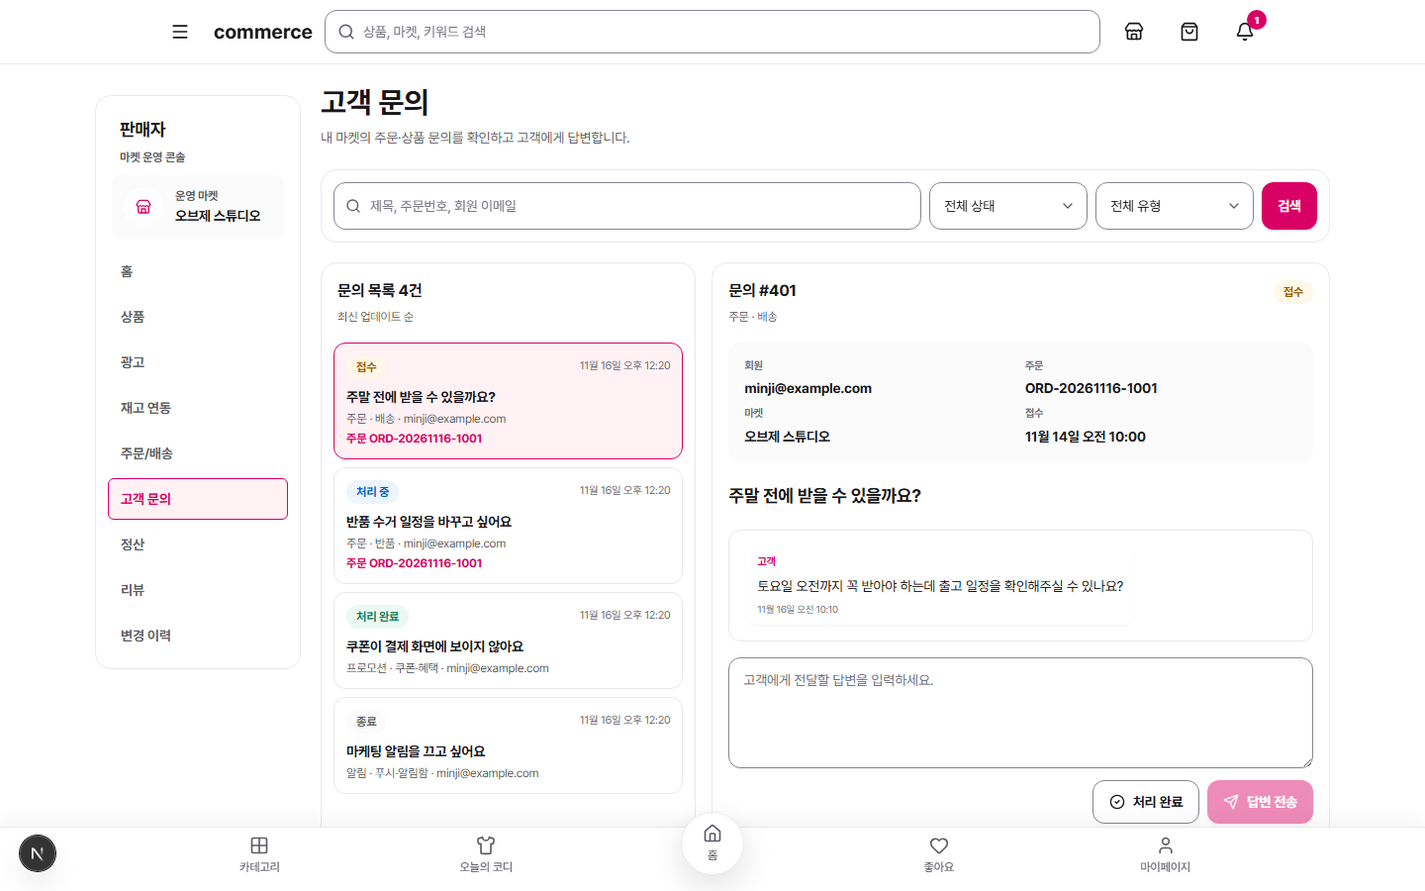
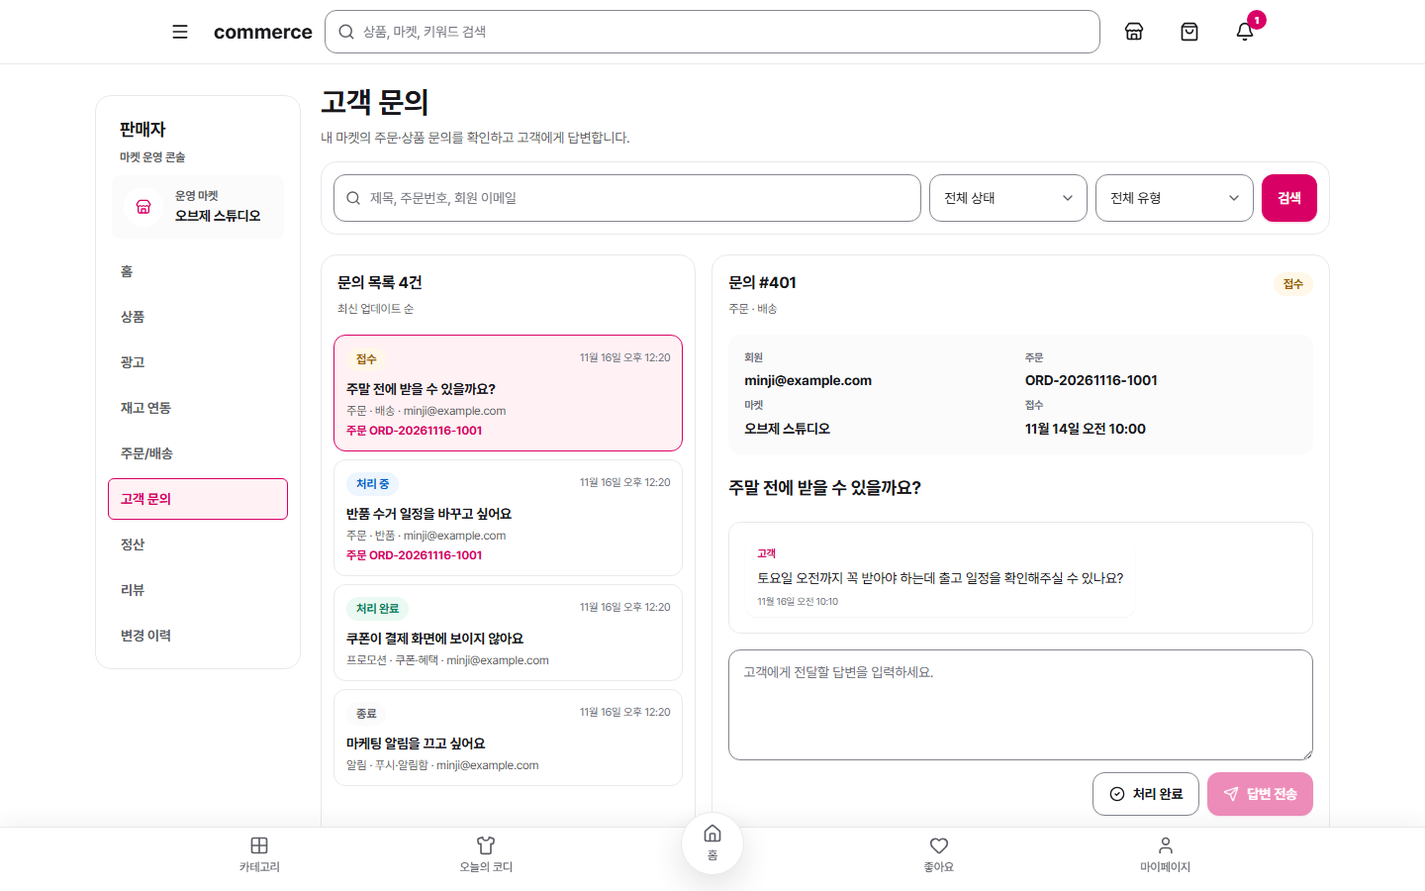
feat: add AI inquiry search experience

diff --git a/src/components/inquiry-operator-page.tsx b/src/components/inquiry-operator-page.tsx
@@ -2,10 +2,10 @@
 
 import { useState } from "react";
 import { useMutation, useQuery, useQueryClient } from "@tanstack/react-query";
-import { CheckCircle2, MessageSquareText, Search, Send } from "lucide-react";
+import { CheckCircle2, MessageSquareText, Search, Send, Sparkles } from "lucide-react";
 import { api } from "@/lib/api";
 import { apiErrorMessage } from "@/lib/api-client";
-import type { InquiryCategory, InquiryStatus } from "@/lib/api/inquiries";
+import type { InquiryCategory, InquiryStatus, NaturalLanguageInquirySearchResponse, OperatorInquiry } from "@/lib/api/inquiries";
 import { categoryLabel, inquiryCategories, inquiryDate } from "@/lib/inquiries";
 import { adminLinks, AdminAuthRequired, useAdminToken } from "./admin-console";
 import { ConsoleHeader, ConsoleLayout, ConsoleSection } from "./console-layout";
@@ -34,13 +34,24 @@ function OperatorInquiryContent({ role, token, marketID }: { role: "admin" | "se
   const [query, setQuery] = useState("");
   const [status, setStatus] = useState<"" | InquiryStatus>("");
   const [category, setCategory] = useState<"" | InquiryCategory>("");
+  const [searchMode, setSearchMode] = useState<"ai" | "keyword">("ai");
   const [selectedID, setSelectedID] = useState<number>();
   const [reply, setReply] = useState("");
+  const aiActive = role === "admin" && searchMode === "ai" && Boolean(query);
   const listKey = ["operator-inquiries", role, marketID, query, status, category] as const;
   const list = useQuery({
     queryKey: listKey,
     queryFn: () => api.listOperatorInquiries(token, role, { query: query || undefined, status: status || undefined, category: category || undefined, marketID, limit: 100 }),
-    enabled: role === "admin" || Boolean(marketID),
+    enabled: (role === "admin" || Boolean(marketID)) && !aiActive,
+  });
+  const aiSearch = useMutation({
+    mutationFn: (searchQuery: string) => api.searchAdminInquiries(token, {
+      query: searchQuery,
+      status: status || undefined,
+      category: category || undefined,
+      limit: 30,
+    }),
+    meta: { suppressConsoleError: true },
   });
   const detail = useQuery({
     queryKey: ["operator-inquiry", role, marketID, selectedID],
@@ -54,26 +65,50 @@ function OperatorInquiryContent({ role, token, marketID }: { role: "admin" | "se
   ]);
   const send = useMutation({ mutationFn: () => api.replyAsOperator(token, role, selectedID ?? 0, reply.trim(), marketID), onSuccess: async () => { setReply(""); await refresh(); } });
   const complete = useMutation({ mutationFn: () => api.completeInquiry(token, role, selectedID ?? 0, marketID), onSuccess: refresh });
+  const page = aiActive ? aiSearch.data : list.data;
+  const pageLoading = aiActive ? aiSearch.isPending : list.isLoading;
+  const pageError = aiActive ? aiSearch.error : list.error;
   const item = detail.data;
 
+  const submitSearch = () => {
+    const nextQuery = queryInput.trim();
+    setQuery(nextQuery);
+    setSelectedID(undefined);
+    if (role === "admin" && searchMode === "ai" && nextQuery) aiSearch.mutate(nextQuery);
+  };
+
+  const useKeywordFallback = () => {
+    aiSearch.reset();
+    setSearchMode("keyword");
+    setQuery(queryInput.trim());
+    setSelectedID(undefined);
+  };
+
   return <>
-    <ConsoleHeader title={role === "admin" ? "고객 문의 통합 검색" : "고객 문의"} description={role === "admin" ? "질문 내용, 회원 이메일, 주문번호를 키워드로 검색하고 플랫폼 문의를 처리합니다." : "내 마켓의 주문·상품 문의를 확인하고 고객에게 답변합니다."} />
-    <form className="mt-5 grid gap-2 rounded-surface border border-border-subtle bg-surface-raised p-3 md:grid-cols-[minmax(240px,1fr)_160px_160px_auto]" onSubmit={(event) => { event.preventDefault(); setQuery(queryInput.trim()); }}>
-      <label className="relative block"><span className="sr-only">문의 검색</span><Search className="pointer-events-none absolute left-3 top-1/2 z-10 size-4 -translate-y-1/2 text-content-secondary" /><Input className="pl-9" value={queryInput} onChange={(event) => setQueryInput(event.target.value)} placeholder={role === "admin" ? "예: 배송이 멈춘 주문, member@example.com" : "제목, 주문번호, 회원 이메일"} /></label>
+    <ConsoleHeader title={role === "admin" ? "고객 문의 AI 검색" : "고객 문의"} description={role === "admin" ? "자연어 요청을 AI가 검색 조건으로 해석하고, 결과마다 찾은 이유를 설명합니다." : "내 마켓의 주문·상품 문의를 확인하고 고객에게 답변합니다."} />
+    {role === "admin" ? <div className="mt-5 flex flex-wrap gap-2" aria-label="검색 방식">
+      <Button size="sm" variant={searchMode === "ai" ? "primary" : "secondary"} aria-pressed={searchMode === "ai"} onClick={() => { setSearchMode("ai"); setQuery(""); setSelectedID(undefined); aiSearch.reset(); }}><Sparkles size={15} />AI 자연어 검색</Button>
+      <Button size="sm" variant={searchMode === "keyword" ? "primary" : "secondary"} aria-pressed={searchMode === "keyword"} onClick={useKeywordFallback}>기본 키워드 검색</Button>
+    </div> : null}
+    <form className="mt-3 grid gap-2 rounded-surface border border-border-subtle bg-surface-raised p-3 md:grid-cols-[minmax(240px,1fr)_160px_160px_auto]" onSubmit={(event) => { event.preventDefault(); submitSearch(); }}>
+      <label className="relative block"><span className="sr-only">문의 검색</span><Search className="pointer-events-none absolute left-3 top-1/2 z-10 size-4 -translate-y-1/2 text-content-secondary" /><Input className="pl-9" value={queryInput} onChange={(event) => setQueryInput(event.target.value)} placeholder={role === "admin" ? "예: 지난주 처리 중인 배송 지연 문의" : "제목, 주문번호, 회원 이메일"} /></label>
       <Select aria-label="문의 상태" value={status} onChange={(event) => setStatus(event.target.value as "" | InquiryStatus)}><option value="">전체 상태</option><option value="STARTED">접수</option><option value="IN_PROGRESS">처리 중</option><option value="COMPLETED">처리 완료</option><option value="CLOSED">종료</option></Select>
-      <Select aria-label="문의 유형" value={category} onChange={(event) => setCategory(event.target.value as "" | InquiryCategory)}><option value="">전체 유형</option>{inquiryCategories.map((item) => <option key={item.value} value={item.value}>{item.label}</option>)}</Select>
-      <Button type="submit">검색</Button>
+      <Select aria-label="문의 유형" value={category} onChange={(event) => setCategory(event.target.value as "" | InquiryCategory)}><option value="">전체 유형</option>{inquiryCategories.map((option) => <option key={option.value} value={option.value}>{option.label}</option>)}</Select>
+      <Button type="submit" disabled={aiSearch.isPending}>{role === "admin" && searchMode === "ai" ? <><Sparkles size={16} />{aiSearch.isPending ? "AI가 분석 중" : "AI 검색"}</> : "검색"}</Button>
     </form>
+    {aiActive && aiSearch.data ? <AISearchExplanation result={aiSearch.data} /> : null}
+    {aiActive && aiSearch.error ? <Notice className="mt-4" tone="error" title="AI 검색을 완료하지 못했습니다"><p>{apiErrorMessage(aiSearch.error)}</p><div className="mt-3 flex flex-wrap gap-2"><Button size="sm" variant="secondary" onClick={() => aiSearch.mutate(query)}>AI 검색 다시 시도</Button><Button size="sm" variant="secondary" onClick={useKeywordFallback}>기본 키워드 검색으로 전환</Button></div></Notice> : null}
     <div className="mt-5 grid min-h-[620px] gap-4 xl:grid-cols-[minmax(340px,0.85fr)_minmax(480px,1.4fr)]">
-      <ConsoleSection title={`문의 목록 ${list.data ? `${list.data.total}건` : ""}`} description={role === "seller" ? "최신 업데이트 순" : "검색 결과와 최신 업데이트 순"}>
-        {list.isLoading ? <InlineLoadingState label="문의 목록을 불러오는 중입니다." /> : null}
-        {list.error ? <Notice tone="error">{apiErrorMessage(list.error)}</Notice> : null}
-        <div className="-mx-1 space-y-2">{list.data?.items.map((inquiry) => <button key={inquiry.id} type="button" onClick={() => setSelectedID(inquiry.id)} className={`w-full rounded-control border p-3 text-left transition ${selectedID === inquiry.id ? "border-action-primary bg-action-secondary" : "border-border-subtle bg-surface-raised hover:border-action-primary/35"}`}>
+      <ConsoleSection title={`문의 목록 ${page ? `${page.total}건` : ""}`} description={aiActive ? "AI가 각 결과의 관련성을 설명합니다." : role === "seller" ? "최신 업데이트 순" : "검색 결과와 최신 업데이트 순"}>
+        {pageLoading ? <InlineLoadingState label={aiActive ? "AI가 요청과 검색 결과를 분석하고 있습니다." : "문의 목록을 불러오는 중입니다."} /> : null}
+        {!aiActive && pageError ? <Notice tone="error">{apiErrorMessage(pageError)}</Notice> : null}
+        <div className="-mx-1 space-y-2">{page?.items.map((inquiry) => <button key={inquiry.id} type="button" onClick={() => setSelectedID(inquiry.id)} className={`w-full rounded-control border p-3 text-left transition ${selectedID === inquiry.id ? "border-action-primary bg-action-secondary" : "border-border-subtle bg-surface-raised hover:border-action-primary/35"}`}>
           <div className="flex items-center justify-between gap-2"><InquiryStatusBadge status={inquiry.status} /><span className="text-[11px] text-content-tertiary">{inquiryDate(inquiry.updated_at)}</span></div>
           <p className="mt-2 truncate text-sm font-bold">{inquiry.title}</p><p className="mt-1 text-xs text-content-secondary">{categoryLabel(inquiry.category, inquiry.subcategory)} · {inquiry.member_email}</p>
           {inquiry.order_code ? <p className="mt-1 text-xs font-bold text-action-primary">주문 {inquiry.order_code}</p> : null}
+          {isAISearchItem(inquiry) ? <div className="mt-3 rounded-control bg-action-secondary px-3 py-2"><p className="text-[11px] font-bold text-action-primary">AI가 찾은 이유</p><p className="mt-1 text-xs leading-5 text-content-secondary">{inquiry.match_reason}</p>{inquiry.highlights?.length ? <div className="mt-2 flex flex-wrap gap-1">{inquiry.highlights.map((highlight) => <span key={highlight} className="rounded-full bg-surface-raised px-2 py-1 text-[10px] font-bold">{highlight}</span>)}</div> : null}</div> : null}
         </button>)}</div>
-        {list.isSuccess && !list.data.items.length ? <EmptyState icon={<MessageSquareText className="size-7" />} title="조건에 맞는 문의가 없습니다" description="검색어나 필터를 바꿔보세요." /> : null}
+        {page && !page.items.length ? <EmptyState icon={<MessageSquareText className="size-7" />} title="조건에 맞는 문의가 없습니다" description={aiActive ? aiSearch.data?.summary ?? "검색 조건을 바꿔보세요." : "검색어나 필터를 바꿔보세요."} /> : null}
       </ConsoleSection>
       <ConsoleSection title={item ? `문의 #${item.id}` : "문의 상세"} description={item ? categoryLabel(item.category, item.subcategory) : "왼쪽 목록에서 문의를 선택하세요."} action={item ? <InquiryStatusBadge status={item.status} /> : undefined}>
         {detail.isLoading ? <InlineLoadingState label="문의 상세를 불러오는 중입니다." /> : null}
@@ -90,6 +125,26 @@ function OperatorInquiryContent({ role, token, marketID }: { role: "admin" | "se
       </ConsoleSection>
     </div>
   </>;
+}
+
+function AISearchExplanation({ result }: { result: Awaited<ReturnType<typeof api.searchAdminInquiries>> }) {
+  const period = interpretationPeriod(result.interpretation.created_from, result.interpretation.created_to);
+  return <section data-testid="ai-search-explanation" className="mt-4 rounded-surface border border-action-primary/25 bg-action-secondary p-4">
+    <div className="flex items-start gap-3"><span className="grid size-9 shrink-0 place-items-center rounded-full bg-action-primary text-content-on-brand"><Sparkles size={17} /></span><div><p className="text-xs font-bold text-action-primary">AI 검색 해석</p><p className="mt-1 font-bold">{result.interpretation.summary}</p><p className="mt-2 text-sm leading-6 text-content-secondary">{result.summary}</p></div></div>
+    <div className="mt-3 flex flex-wrap gap-2">{result.interpretation.keywords.map((keyword) => <span key={keyword} className="rounded-full border border-action-primary/20 bg-surface-raised px-3 py-1 text-xs font-bold text-action-primary">{keyword}</span>)}{result.interpretation.status ? <span className="rounded-full bg-surface-raised px-3 py-1 text-xs font-bold">상태 · {result.interpretation.status}</span> : null}{result.interpretation.category ? <span className="rounded-full bg-surface-raised px-3 py-1 text-xs font-bold">유형 · {categoryLabel(result.interpretation.category)}</span> : null}{period ? <span className="rounded-full bg-surface-raised px-3 py-1 text-xs font-bold">기간 · {period}</span> : null}</div>
+  </section>;
+}
+
+function interpretationPeriod(from?: string, to?: string) {
+  if (!from && !to) return "";
+  const formatter = new Intl.DateTimeFormat("ko-KR", { month: "short", day: "numeric", timeZone: "Asia/Seoul" });
+  return `${from ? formatter.format(new Date(from)) : "이전"} ~ ${to ? formatter.format(new Date(to)) : "현재"}`;
+}
+
+type AISearchItem = NaturalLanguageInquirySearchResponse["items"][number];
+
+function isAISearchItem(inquiry: OperatorInquiry | AISearchItem): inquiry is AISearchItem {
+  return "match_reason" in inquiry && typeof inquiry.match_reason === "string";
 }
 
 function Related({ label, value }: { label: string; value: string }) {

diff --git a/tests/e2e/com-23-screenshots.spec.ts b/tests/e2e/com-23-screenshots.spec.ts
@@ -107,11 +107,26 @@ test("COM-23 PR screenshots", async ({ page }) => {
 
   await installSession(page, "ADMIN");
   await page.goto("/admin/inquiries");
-  await page.getByPlaceholder("예: 배송이 멈춘 주문, member@example.com").fill("쿠폰 결제 화면");
-  await page.getByRole("button", { name: "검색", exact: true }).click();
+  await page.getByPlaceholder("예: 지난주 처리 중인 배송 지연 문의").fill("쿠폰 결제 화면");
+  await page.getByRole("button", { name: "AI 검색", exact: true }).click();
+  await expect(page.getByTestId("ai-search-explanation")).toBeVisible();
   await page.getByRole("button", { name: /쿠폰이 결제 화면에 보이지 않아요/ }).click();
   await expect(page.getByText("문의 #403", { exact: true })).toBeVisible();
   await shot(page, "10-admin-natural-language-search.png");
+
+  await page.getByPlaceholder("예: 지난주 처리 중인 배송 지연 문의").fill("지난달 없는 회원 문의");
+  await page.getByRole("button", { name: "AI 검색", exact: true }).click();
+  await expect(page.getByText("조건에 맞는 문의가 없습니다", { exact: true })).toBeVisible();
+  await shot(page, "19-pc-admin-ai-empty.png");
+
+  await page.getByPlaceholder("예: 지난주 처리 중인 배송 지연 문의").fill("쿠폰 오류 테스트");
+  await page.getByRole("button", { name: "AI 검색", exact: true }).click();
+  await expect(page.getByText("AI 검색을 완료하지 못했습니다", { exact: true })).toBeVisible();
+  await shot(page, "20-pc-admin-ai-unavailable.png");
+
+  await page.getByRole("button", { name: "기본 키워드 검색으로 전환" }).click();
+  await expect(page.getByRole("button", { name: /쿠폰이 결제 화면에 보이지 않아요/ })).toBeVisible();
+  await shot(page, "21-pc-admin-keyword-fallback.png");
 });
 
 async function installSession(page: Page, role: "MEMBER" | "SELLER" | "ADMIN") {
@@ -126,6 +141,7 @@ async function installSession(page: Page, role: "MEMBER" | "SELLER" | "ADMIN") {
 
 async function shot(page: Page, name: string, scrollTop = true) {
   if (scrollTop) await page.evaluate(() => window.scrollTo(0, 0));
+  await page.addStyleTag({ content: "nextjs-portal { display: none !important; }" });
   await page.screenshot({ path: `docs/pr-assets/com-23/${name}`, animations: "disabled" });
 }
 
@@ -177,6 +193,20 @@ async function installApiMocks(page: Page) {
     if (path === "/api/v1/me/notifications") return json(route, { items: [{ id: 51, member_id: 3, message_id: 71, created_at: capturedAt, read_at: null, toast_shown_at: null, message: { id: 71, kind: "INFORMATION", title: "문의 답변이 도착했습니다", body: "반품 수거 일정을 확인했습니다. 금요일 오전 방문으로 변경해드렸어요.", destination_path: "/mypage/inquiries/402", toast_enabled: true, toast_expires_at: null } }], read_through: capturedAt });
     if (path === "/api/v1/notifications/read-all") return route.fulfill({ status: 204 });
     if (path === "/api/v1/seller/context") return json(route, { market_id: 1, market_name: "오브제 스튜디오", status: "OPEN", permissions: ["INQUIRY_READ", "INQUIRY_REPLY"] });
+    if (path === "/api/v1/admin/inquiries/search" && method === "POST") {
+      const request = route.request().postDataJSON() as { query?: string };
+      if (request.query === "쿠폰 오류 테스트") return jsonError(route, 503, "DEPENDENCY_UNAVAILABLE", "연결된 서비스를 일시적으로 사용할 수 없습니다");
+      if (request.query === "지난달 없는 회원 문의") return json(route, {
+        interpretation: { summary: "지난달 접수된 회원 문의를 찾습니다.", keywords: ["회원"], category: "MEMBER", created_from: "2026-10-01T00:00:00Z", created_to: "2026-11-01T00:00:00Z" },
+        summary: "해당 기간과 조건에 맞는 문의를 찾지 못했습니다.", items: [], limit: 30, offset: 0, total: 0,
+      });
+      return json(route, {
+        interpretation: { summary: "결제 화면에서 쿠폰이 보이지 않는 문의를 찾습니다.", keywords: ["쿠폰", "결제 화면"], category: "PROMOTION" },
+        summary: "쿠폰 노출과 결제 적용 문제를 직접 다룬 문의 1건입니다.",
+        items: [{ ...detail(403), match_reason: "고객이 결제 화면에서 발급 쿠폰을 찾을 수 없다고 문의했습니다.", highlights: ["20% 쿠폰", "결제 화면", "최소 주문금액"] }],
+        limit: 30, offset: 0, total: 1,
+      });
+    }
     if ((path === "/api/v1/seller/inquiries" || path === "/api/v1/admin/inquiries") && method === "GET") {
       const items = path.includes("admin") && url.searchParams.get("q") ? [detail(403)] : listItems.map((item) => ({ ...item, member_email: "minji@example.com", order_code: item.order_id ? "ORD-20261116-1001" : undefined, market_name: item.market_id ? "오브제 스튜디오" : undefined }));
       return json(route, { items, limit: 100, offset: 0, total: items.length });
@@ -197,4 +227,8 @@ function productFixture() {
 
 function json(route: Route, value: unknown) {
   return route.fulfill({ status: 200, contentType: "application/json", body: JSON.stringify(value) });
+}
+
+function jsonError(route: Route, status: number, code: string, message: string) {
+  return route.fulfill({ status, contentType: "application/json", body: JSON.stringify({ success: false, error: { code, message, request_id: "req-ai-search", details: { dependency: "inquiry_search_ai" } } }) });
 }

diff --git a/src/lib/api/inquiries.ts b/src/lib/api/inquiries.ts
@@ -75,11 +75,35 @@ const operatorInquiryPageSchema = z.object({
   total: z.number().int().nonnegative(),
 });
 
+export const inquirySearchInterpretationSchema = z.object({
+  summary: z.string().min(1),
+  keywords: z.array(z.string().min(1)).max(8),
+  status: inquiryStatusSchema.optional(),
+  category: inquiryCategorySchema.optional(),
+  created_from: z.string().optional(),
+  created_to: z.string().optional(),
+});
+
+export const naturalLanguageInquirySearchItemSchema = operatorInquirySchema.extend({
+  match_reason: z.string().min(1),
+  highlights: z.array(z.string().min(1)).max(3).optional(),
+});
+
+export const naturalLanguageInquirySearchResponseSchema = z.object({
+  interpretation: inquirySearchInterpretationSchema,
+  summary: z.string().min(1),
+  items: z.array(naturalLanguageInquirySearchItemSchema),
+  limit: z.number().int().positive(),
+  offset: z.number().int().nonnegative(),
+  total: z.number().int().nonnegative(),
+});
+
 export type Inquiry = z.infer<typeof inquirySchema>;
 export type InquiryMessage = z.infer<typeof inquiryMessageSchema>;
 export type InquiryStatus = z.infer<typeof inquiryStatusSchema>;
 export type InquiryCategory = z.infer<typeof inquiryCategorySchema>;
 export type OperatorInquiry = z.infer<typeof operatorInquirySchema>;
+export type NaturalLanguageInquirySearchResponse = z.infer<typeof naturalLanguageInquirySearchResponseSchema>;
 
 type OperatorFilter = {
   query?: string;
@@ -133,6 +157,8 @@ export const inquiryApi = {
     requestParsed(satisfactionResponseSchema, `/api/v1/me/inquiries/${inquiryID}/satisfaction`, { method: "POST", token, body: JSON.stringify(payload) }),
   listOperatorInquiries: (token: string, role: "admin" | "seller", filter?: OperatorFilter) =>
     requestParsed(operatorInquiryPageSchema, operatorPath(role, filter), { token }),
+  searchAdminInquiries: (token: string, payload: { query: string; status?: InquiryStatus; category?: InquiryCategory; limit?: number; offset?: number }) =>
+    requestParsed(naturalLanguageInquirySearchResponseSchema, "/api/v1/admin/inquiries/search", { method: "POST", token, body: JSON.stringify(payload) }),
   getOperatorInquiry: (token: string, role: "admin" | "seller", inquiryID: number, marketID?: number) =>
     requestParsed(operatorInquirySchema, `/api/v1/${role}/inquiries/${inquiryID}${queryString({ market_id: role === "seller" ? marketID : undefined })}`, { token }),
   replyAsOperator: (token: string, role: "admin" | "seller", inquiryID: number, body: string, marketID?: number) =>

diff --git a/src/components/console-layout.test.tsx b/src/components/console-layout.test.tsx
@@ -1,5 +1,5 @@
-import { cleanup, fireEvent, render, screen } from "@testing-library/react";
-import { QueryClient, QueryClientProvider } from "@tanstack/react-query";
+import { cleanup, fireEvent, render, screen, waitFor } from "@testing-library/react";
+import { QueryClient, QueryClientProvider, useMutation } from "@tanstack/react-query";
 import { afterEach, describe, expect, it, vi } from "vitest";
 import { ConsoleActionField, ConsoleLayout, DataTable, FilterField, FilterPanel } from "./console-layout";
 
@@ -114,6 +114,29 @@ describe("ConsoleLayout navigation", () => {
 
     expect(screen.getByRole("button", { name: "탐색 열기" })).toHaveAttribute("aria-expanded", "false");
     expect(navigation).toHaveClass("hidden", "md:grid");
+  });
+
+  it("allows locally handled mutations to suppress the global error banner", async () => {
+    const client = new QueryClient({ defaultOptions: { mutations: { retry: false } } });
+    function LocallyHandledMutation() {
+      const mutation = useMutation({
+        mutationFn: async () => { throw new Error("AI 검색 실패"); },
+        meta: { suppressConsoleError: true },
+      });
+      return <button type="button" onClick={() => mutation.mutate()}>AI 검색</button>;
+    }
+    render(
+      <QueryClientProvider client={client}>
+        <ConsoleLayout title="관리자" links={[{ href: "/admin", label: "홈" }]}>
+          <LocallyHandledMutation />
+        </ConsoleLayout>
+      </QueryClientProvider>,
+    );
+
+    fireEvent.click(screen.getByRole("button", { name: "AI 검색" }));
+    await waitFor(() => expect(client.getMutationCache().getAll()[0].state.status).toBe("error"));
+
+    expect(screen.queryByText("작업을 완료하지 못했습니다.")).not.toBeInTheDocument();
   });
 });
 

diff --git a/src/lib/api/inquiries.test.ts b/src/lib/api/inquiries.test.ts
@@ -1,0 +1,48 @@
+import { describe, expect, it } from "vitest";
+import { naturalLanguageInquirySearchResponseSchema } from "./inquiries";
+
+const inquiry = {
+  id: 403,
+  member_id: 3,
+  member_email: "minji@example.com",
+  owner_type: "ADMIN",
+  category: "PROMOTION",
+  subcategory: "COUPON_BENEFIT",
+  title: "쿠폰이 결제 화면에 보이지 않아요",
+  status: "COMPLETED",
+  last_message_at: "2026-11-14T03:20:00Z",
+  created_at: "2026-11-14T01:00:00Z",
+  updated_at: "2026-11-14T03:20:00Z",
+  match_reason: "결제 화면의 쿠폰 문제를 직접 설명하는 문의입니다.",
+  highlights: ["쿠폰", "결제 화면"],
+};
+
+describe("naturalLanguageInquirySearchResponseSchema", () => {
+  it("accepts interpreted queries and per-result explanations", () => {
+    const result = naturalLanguageInquirySearchResponseSchema.parse({
+      interpretation: {
+        summary: "결제 화면의 쿠폰 문의를 찾습니다.",
+        keywords: ["쿠폰", "결제 화면"],
+        category: "PROMOTION",
+      },
+      summary: "쿠폰 노출 문제와 관련된 문의 1건입니다.",
+      items: [inquiry],
+      limit: 30,
+      offset: 0,
+      total: 1,
+    });
+
+    expect(result.items[0].match_reason).toContain("쿠폰");
+  });
+
+  it("rejects unexplained results", () => {
+    expect(() => naturalLanguageInquirySearchResponseSchema.parse({
+      interpretation: { summary: "쿠폰 문의", keywords: ["쿠폰"] },
+      summary: "결과입니다.",
+      items: [{ ...inquiry, match_reason: "" }],
+      limit: 30,
+      offset: 0,
+      total: 1,
+    })).toThrow();
+  });
+});

diff --git a/src/components/console-layout.tsx b/src/components/console-layout.tsx
@@ -45,6 +45,7 @@ export function ConsoleLayout({
   useEffect(() => {
     const clearTimer = window.setTimeout(() => setMutationError(undefined), 0);
     const unsubscribe = queryClient.getMutationCache().subscribe((event) => {
+      if (event.mutation?.options.meta?.suppressConsoleError) return;
       if (event.mutation?.state.status === "error") {
         setMutationError(event.mutation.state.error);
       } else if (event.mutation?.state.status === "pending" || event.mutation?.state.status === "success") {
